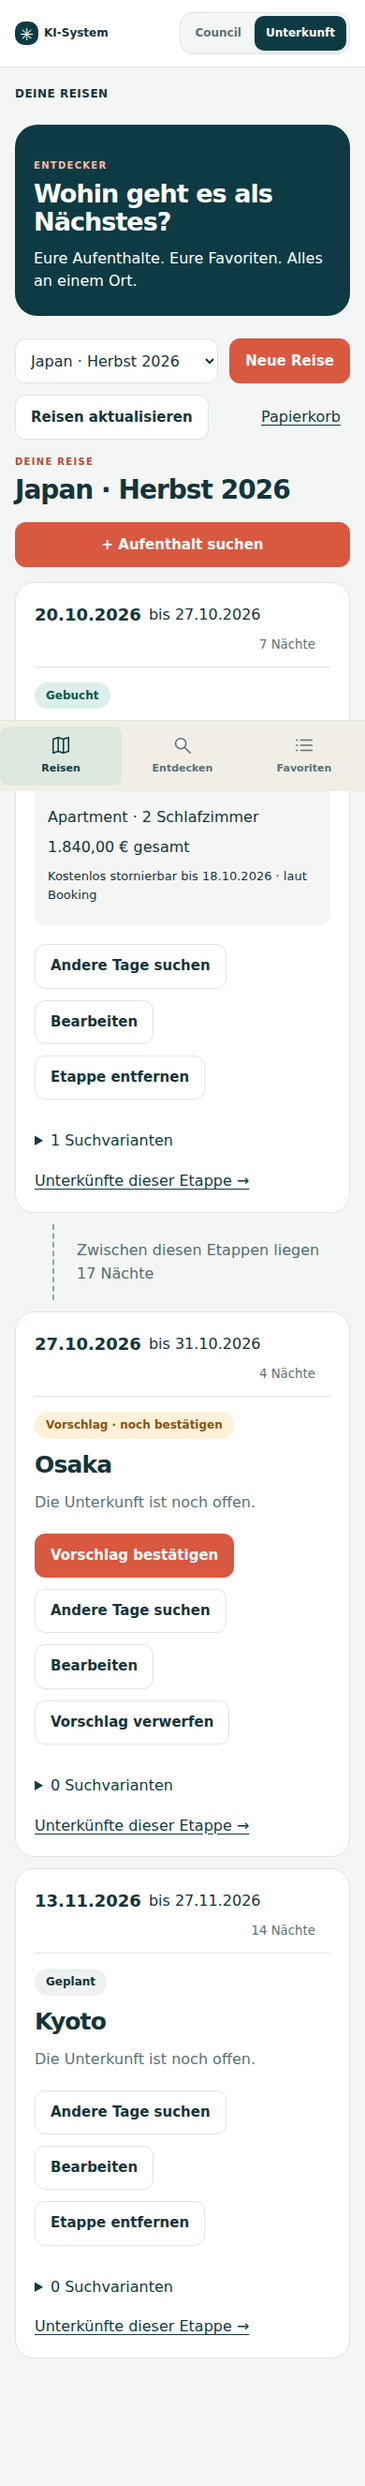
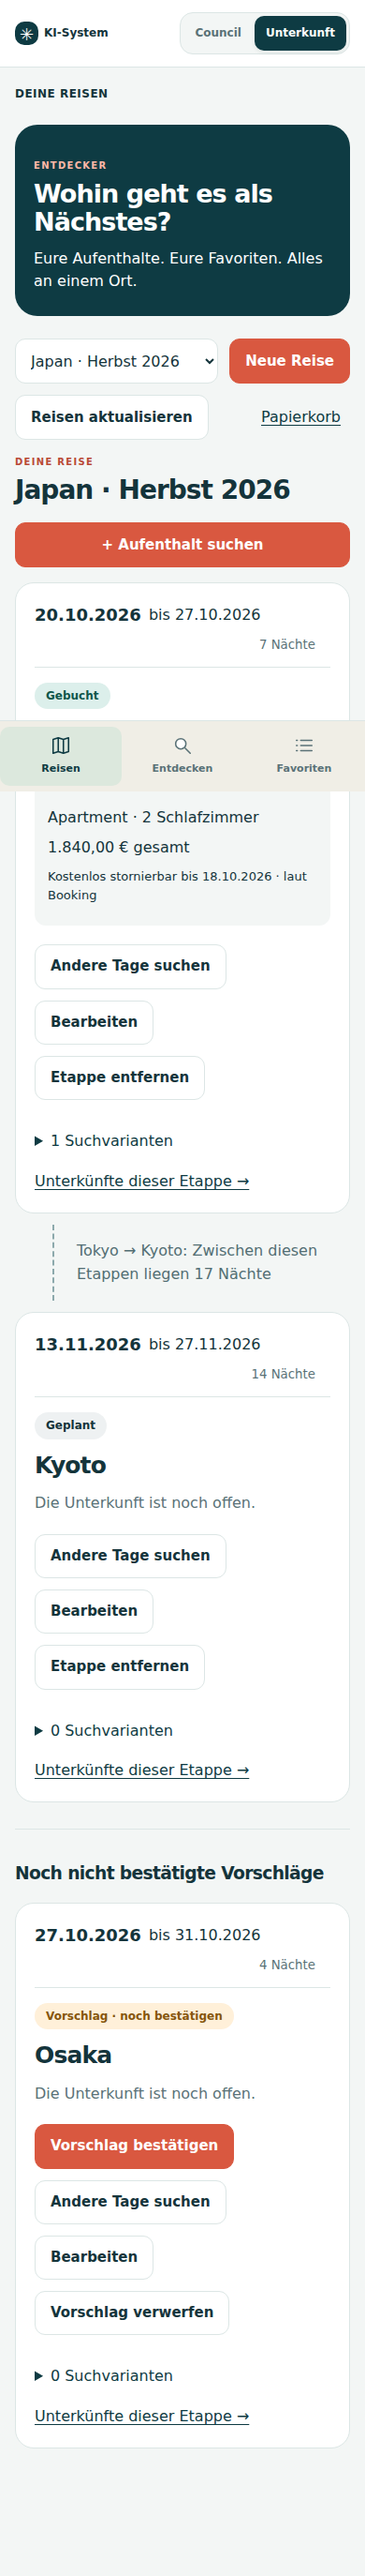
fix: address Claude review 301 A-E; immersive photo review and confirmed trip gaps

diff --git a/stay-review.js b/stay-review.js
@@ -96,7 +96,7 @@ function stayReviewInfo(t,trip) {
   const nights=(Date.parse(trip.abreise)-Date.parse(trip.anreise))/86400000;
   const labels={preis:nights>0?'Gesamt · '+nights+' Nächte':'Gesamtpreis',nacht:'Pro Nacht',gaestenote:'Gästenote',m2:'Fläche',schlafzimmer:'Schlafzimmer',gehzeit:'Zu Fuß zur Station'};
   return el('dl',{class:'review-info'},['preis','m2','schlafzimmer',...stayReviewFields()].map(key=>{
-    const value=stayFieldValue(t,key,trip);let display=value===null?'–':String(value), note=null;
+    const value=stayFieldValue(t,key,trip);let display=value===null?'unbekannt':String(value), note=null;
     if(value!==null){
       if(['preis','nacht'].includes(key))display=(t.angebot?.preis_art==='geschaetzt'?'ca. ':'')+sucheEuro(value);
       if(key==='m2')display=Number(value).toLocaleString('de-DE')+' m²';
@@ -122,7 +122,7 @@ function stayGallery(t) {
   const photo=el('div'), count=el('span',{'aria-live':'polite'});
   const prev=el('button',{type:'button','aria-label':'Vorheriges Foto',onclick:()=>show(index-1)},'‹');
   const next=el('button',{type:'button','aria-label':'Nächstes Foto',onclick:()=>show(index+1)},'›');
-  function show(i) {index=Math.max(0,Math.min(urls.length-1,i));photo.replaceChildren(sucheFoto({...t,bild:urls[index]}));count.textContent=`${index+1} / ${urls.length}`;prev.disabled=index===0;next.disabled=index===urls.length-1;const card=box.closest('.review-card');if(card)stayCardPhoto(card,box);const img=photo.querySelector('img');if(img)img.addEventListener('error',()=>{box.classList.add('gallery-empty');card?.querySelector(':scope > .review-backdrop')?.remove();});box.classList.remove('gallery-empty');}
+  function show(i) {index=Math.max(0,Math.min(urls.length-1,i));photo.replaceChildren(sucheFoto({...t,bild:urls[index]}));count.textContent=`${index+1} / ${urls.length}`;box.dataset.photo=`Foto ${index+1}/${urls.length}`;box.onPhotoChange?.();prev.disabled=index===0;next.disabled=index===urls.length-1;const card=box.closest('.review-card');if(card)stayCardPhoto(card,box);const img=photo.querySelector('img');if(img)img.addEventListener('error',()=>{box.classList.add('gallery-empty');card?.querySelector(':scope > .review-backdrop')?.remove();});box.classList.remove('gallery-empty');}
   photo.addEventListener('pointerdown',e=>{start={x:e.clientX,y:e.clientY};});
   photo.addEventListener('pointerup',e=>{if(start && Math.abs(e.clientX-start.x)>50 && Math.abs(e.clientY-start.y)<50)show(index+(e.clientX<start.x?1:-1));start=null;});
   photo.addEventListener('pointercancel',()=>{start=null;});
@@ -153,7 +153,7 @@ function stayEndrunde(hits,id,call,live,onSaved) {
   }},t.name+' wählen')))));}
   dialog.append(el('h2',{},'Endrunde · Favoriten'),close,body,status,save);list();return dialog;
 }
-function stayReview({getSnapshot,call,live,changed,scope,onRefresh,isBlocked=()=>false}) {
+function stayReview({getSnapshot,call,live,changed,scope,onRefresh,onClose,menuItems=()=>[],isBlocked=()=>false}) {
   let pending=false, last=null, reasonFor=null, awaitingReturn=null, revision=0, gallery=null, galleryId=null, reasonsDialog=null;
   const box=el('section',{class:'stay-review'}), message=el('p',{class:'review-message',role:'status'});
   const minus=[['preis','Preis'],['zu_klein','Zu klein'],['lage','Lage'],['stil','Stil'],['betten','Betten'],['fotos','Fotos'],['laerm','Lärm'],['ausstattung','Ausstattung'],['sonstiges','Sonstiges']];
@@ -188,14 +188,18 @@ function stayReview({getSnapshot,call,live,changed,scope,onRefresh,isBlocked=()=
   function draw(){
     const snapshot=getSnapshot();if(!snapshot)return;
     const all=snapshot.treffer, queue=all.filter(t=>!['favorit','vielleicht','ausgeschlossen'].includes(t.status)&&t.topf!=='ausgeschlossen'&&(!t.urteil_uebernommen || (t.status==='aktiv' && t.urteil_uebernommen.hinweis))).sort((a,b)=>(b.runde||1)-(a.runde||1)||(a.bewertung?.rang??Infinity)-(b.bewertung?.rang??Infinity)||a.treffer_id-b.treffer_id);
-    box.replaceChildren(el('div',{class:'review-toolbar'},el('span',{class:'review-progress'},`${queue.length} offen · ${all.filter(t=>['favorit','vielleicht','ausgeschlossen'].includes(t.status)).length} bewertet`),
-      el('button',{type:'button',disabled:!last||pending||needsRefresh||isBlocked(),'aria-label':'Letzte Entscheidung rückgängig',onclick:()=>vote(last,'offen',[],false)},'↶ Rückgängig')),
-      el('div',{class:'review-feedback'},message,el('button',{type:'button',class:'review-reason-open',disabled:!reasonFor||pending||needsRefresh||isBlocked(),onclick:openReasons},'Gründe ergänzen')));
+    const total=all.filter(t=>t.topf!=='ausgeschlossen').length;
+    const progress=el('span',{class:'review-position','aria-live':'polite'});
+    const undo=el('button',{type:'button',disabled:!last||pending||needsRefresh||isBlocked(),'aria-label':'Letzte Entscheidung rückgängig',onclick:()=>vote(last,'offen',[],false)},'↶');
+    const menu=el('details',{class:'review-menu'},el('summary',{'aria-label':'Durchsehen-Menü'},'•••'),el('div',{class:'review-menu-panel'},...menuItems(),el('p',{class:'review-progress'},`${queue.length} offen · ${all.filter(t=>['favorit','vielleicht','ausgeschlossen'].includes(t.status)).length} bewertet`),el('button',{type:'button',class:'review-reason-open',disabled:!reasonFor||pending||needsRefresh||isBlocked(),onclick:openReasons},'Gründe ergänzen')));
+    const header=el('header',{class:'review-overlay-header'},el('button',{type:'button','aria-label':'Durchsehen schließen',disabled:pending,onclick:onClose},'×'),progress,undo,menu);
+    box.replaceChildren(message);
     if(pending)message.textContent='Speichere …';
     if((needsRefresh||isBlocked())&&!pending&&onRefresh)box.append(el('button',{type:'button',class:'review-reload',onclick:onRefresh},'Aktualisieren'));
-    const t=queue[0];if(!t){box.append(el('h3',{},'Alle Unterkünfte durchgesehen.'),el('p',{},'In der Endrunde kannst du deine Favoriten vergleichen.'));return;}
+    const t=queue[0];if(!t){progress.textContent='Durchsehen abgeschlossen';box.append(header);box.append(el('h3',{},'Alle Unterkünfte durchgesehen.'),el('p',{},'In der Endrunde kannst du deine Favoriten vergleichen.'));return;}
     if(galleryId!==t.treffer_id){galleryId=t.treffer_id;gallery=stayGallery(t);}
     const article=el('article',{class:'review-card','data-review-hit':t.treffer_id});
+    gallery.onPhotoChange=()=>{progress.textContent=`Unterkunft ${Math.max(1,total-queue.length+1)}/${total} · ${gallery.dataset.photo||'Kein Foto'}`;};gallery.onPhotoChange();
     const content=el('div',{class:'review-content',tabindex:0,'aria-label':'Unterkunft ansehen'},gallery,t.urteil_uebernommen?.hinweis?el('p',{class:'warning'},'Jetzt günstiger · '+t.urteil_uebernommen.hinweis):null);
     const swipe=el('div',{class:'review-swipe'},el('h3',{tabindex:-1},t.name),el('p',{class:'review-score'},`Rang ${t.bewertung?.rang??'–'} · ${snapshot.suchauftrag.status==='fertig'&&['A','B'].includes(sucheGruppe(t))?'Passung':'Vorläufige Passung'} ${t.bewertung?.score??'–'}/100`),stayReviewInfo(t,snapshot.suchauftrag));
     let point=null, swiped=false;
@@ -203,12 +207,12 @@ function stayReview({getSnapshot,call,live,changed,scope,onRefresh,isBlocked=()=
     swipe.addEventListener('pointercancel',()=>point=null);
     swipe.addEventListener('pointerup',e=>{if(!point||point.id!==e.pointerId)return;const dx=e.clientX-point.x,dy=e.clientY-point.y;point=null;if(Math.max(Math.abs(dx),Math.abs(dy))<70)return;if(Math.abs(dx)>Math.abs(dy)*1.3){swiped=true;void vote(t,dx>0?'favorit':'weg');}});
     swipe.addEventListener('click',e=>{if(swiped){e.preventDefault();e.stopPropagation();swiped=false;}},true);
-    const warnings=sucheWarnungen(t).map(w=>SUCHE_WARNUNGEN[w]||w);if(warnings.length)swipe.append(el('details',{class:'warning'},el('summary',{},warnings[0]+(warnings.length>1?' · '+(warnings.length-1)+' weitere prüfen':'')),warnings.map(w=>el('p',{},w))));
+    const warnings=[...sucheWarnungen(t).map(w=>SUCHE_WARNUNGEN[w]||w),...['m2','schlafzimmer','gehzeit'].filter(k=>stayFieldValue(t,k,snapshot.suchauftrag)===null).map(k=>({m2:'Fläche: unbekannt',schlafzimmer:'Schlafzimmer: unbekannt',gehzeit:'Station: unbekannt'})[k])];if(warnings.length)swipe.append(el('details',{class:'warning'},el('summary',{},warnings[0]+(warnings.length>1?' · '+(warnings.length-1)+' weitere prüfen':'')),warnings.map(w=>el('p',{},w))));
     const provider=sucheAnbieterLink(t), url=provider?.url;
     content.append(swipe,el('div',{class:'review-links'},url?el('a',{href:url,target:'_blank',rel:'noopener noreferrer',onclick:()=>{awaitingReturn=t.treffer_id;}},provider.label):null,
       el('button',{type:'button',onclick:event=>{const trigger=event.currentTarget,dialog=sucheKandidat(t,snapshot.suchauftrag.status==='fertig',snapshot.suchauftrag.id);scope.append(dialog);dialog.addEventListener('close',()=>{dialog.remove();if(trigger.isConnected)trigger.focus({preventScroll:true});});dialog.showModal();}},'Details')));
     if(awaitingReturn===t.treffer_id)content.append(el('p',{role:'status'},'Und? Wie gefällt dir die Unterkunft?'));
-    article.append(content,buttons(t));stayCardPhoto(article,gallery);box.append(article);
+    article.append(header,content,buttons(t));stayCardPhoto(article,gallery);box.append(article);
 
   }
   const returned=()=>{if(!document.hidden && awaitingReturn && live())draw();};document.addEventListener('visibilitychange',returned);

diff --git a/stay-trips.js b/stay-trips.js
@@ -49,16 +49,21 @@ async function viewReisen(arg){
   const rid=Number(selector.value),trip=snapshot.reisen.find(x=>x.id===rid);content.replaceChildren();if(!trip){content.append(el('p',{},'Lege deine erste Reise an. Danach kannst du Unterkünfte suchen.'));return;}
   const stages=snapshot.etappen.filter(e=>e.reise_id===rid).sort((a,b)=>String(a.anreise).localeCompare(String(b.anreise))||a.id-b.id);
   content.append(el('div',{class:'trip-title'},el('div',{},el('p',{class:'eyebrow'},'DEINE REISE'),el('h2',{},trip.name)),el('button',{class:'primary',onclick:()=>{stayWrite('ks_trip_context',{reise_id:rid});route('suche');}},'+ Aufenthalt suchen')));
-  const timeline=el('div',{class:'trip-timeline'});content.append(timeline);
+  const timeline=el('div',{class:'trip-timeline'}),proposals=el('section',{class:'trip-proposals'},el('h3',{},'Noch nicht bestätigte Vorschläge'));content.append(timeline);
+  const confirmed=stages.filter(e=>e.status!=='vorschlag');
   for(const e of stages){const b=e.buchung,card=el('article',{class:'trip-stage','data-stage':e.id});
    card.append(el('div',{class:'stage-date'},el('strong',{},fmtDate(e.anreise)),el('span',{},'bis '+fmtDate(e.abreise)),el('small',{},(e.naechte??'–')+' Nächte')),
     el('div',{class:'stage-main'},el('span',{class:'trip-status '+e.status},{vorschlag:'Vorschlag · noch bestätigen',geplant:'Geplant',gebucht:'Gebucht'}[e.status]||'Status offen'),el('h3',{},e.ziel),b?el('div',{class:'booking-summary'},el('strong',{},b.name||'Unterkunft'),el('p',{},b.zimmer||''),el('p',{},sucheEuro(b.preis_gesamt_eur)+' gesamt'),el('p',{class:'storno'},tripStorno(b))):el('p',{class:'muted'},'Die Unterkunft ist noch offen.'),
     el('div',{class:'actions'},e.status==='vorschlag'?el('button',{class:'primary',onclick:()=>change(e,{status:'geplant'})},'Vorschlag bestätigen'):null,el('button',{onclick:()=>tripStart(e)},'Andere Tage suchen'),el('button',{onclick:()=>tripEdit(e,load)},'Bearbeiten'),el('button',{onclick:()=>tripDelete('etappe',e.id,load)},e.status==='vorschlag'?'Vorschlag verwerfen':'Etappe entfernen'))));
    const searches=el('details',{open:expanded.has(e.id)},el('summary',{},(e.suchen||[]).length+' Suchvarianten'));
    for(const s of e.suchen||[]){const active=s.id===e.aktive_suche_id;searches.append(el('div',{class:'trip-variant'},el('a',{href:'#/suche/'+s.id},`${fmtDate(s.anreise)}–${fmtDate(s.abreise)} · ${s.status}`),active?el('strong',{},'Aktuelle Variante'):el('button',{onclick:()=>change(e,{aktive_suche_id:s.id})},'Diese Tage verwenden'),el('button',{onclick:()=>tripDelete('suchauftrag',s.id,load)},'Suche entfernen')));}
-   card.querySelector('.stage-main').append(searches,el('a',{href:'#/etappe/'+e.id},'Unterkünfte dieser Etappe →'));timeline.append(card);
-   for(const gap of snapshot.luecken||[]){if(gap.zwischen?.[0]===e.id)timeline.append(el('div',{class:'trip-gap'},gap.text||`${gap.naechte} Nächte noch offen`));}
+   card.querySelector('.stage-main').append(searches,el('a',{href:'#/etappe/'+e.id},'Unterkünfte dieser Etappe →'));if(e.status==='vorschlag')proposals.append(card);else {
+    const before=confirmed[confirmed.indexOf(e)-1];
+    for(const gap of snapshot.luecken||[]){if(before&&gap.zwischen?.[0]===before.id&&gap.zwischen?.[1]===e.id)timeline.append(el('div',{class:'trip-gap','data-gap-from':before.id,'data-gap-to':e.id},`${before.ziel} → ${e.ziel}: `+(gap.text||`${gap.naechte} Nächte noch offen`)));}
+    timeline.append(card);
+   }
   }
+  if(proposals.childElementCount>1)content.append(proposals);
   if(!stages.length)timeline.append(el('p',{class:'card'},'Noch keine Etappen. Suche deinen ersten Aufenthalt.'));
   const loose=(snapshot.ohne_etappe||[]).filter(s=>s.reise_id===rid||!s.reise_id);if(loose.length){const box=el('details',{},el('summary',{},'Suchen ohne Etappe'));for(const s of loose){const target=el('select',{'aria-label':'Etappe für Suche '+s.id},el('option',{value:''},'Etappe wählen'),stages.map(e=>el('option',{value:e.id},e.ziel+' · '+fmtDate(e.anreise))));box.append(el('div',{class:'trip-variant'},el('a',{href:'#/suche/'+s.id},'Suche #'+s.id+' · '+s.ziel),target,el('button',{onclick:async ev=>{if(!tripId(target.value))return;ev.target.disabled=true;try{const r=await tripCall('unterkunft_etappe_zuordnen',{suchauftrag_id:s.id,etappe_id:Number(target.value)});if(!r.suche)throw Error('Zuordnung nicht bestätigt.');await load();}catch(e){status.textContent=e.message+' Bitte neu lesen.';}}},'Zuordnen')));}content.append(box);}
  }

diff --git a/style.css b/style.css
@@ -944,3 +944,37 @@ body:has(.tinder-mode){padding-top:0!important;}
 .review-card:has(>.review-backdrop) .review-links,.review-card:has(>.review-backdrop) .review-actions{background:rgba(14,59,67,.88);}
 
 .review-card .stay-photo figcaption{top:60px;bottom:auto;left:auto;right:12px;max-width:65%;font-size:10px;background:#0e3b43b3;border-radius:6px;padding:3px 6px;color:white;}
+
+/* Review 301 A–E: immersive photo, overlaid controls, explicit unknowns. */
+body[data-area="unterkunft"]{padding-bottom:calc(100px + env(safe-area-inset-bottom));}
+body:has(.tinder-mode) main.view{padding:8px 10px;}
+.tinder-mode{height:calc(100dvh - 96px - env(safe-area-inset-bottom))!important;}
+.tinder-mode .review-message:empty{display:none;}
+.tinder-mode .review-message{margin:0;font-size:12px;}
+.tinder-mode .review-card{overflow:hidden;}
+.review-overlay-header{position:absolute;top:0;left:0;right:0;z-index:5;display:flex;align-items:center;gap:6px;padding:12px;background:linear-gradient(#092c36bb,transparent);color:white;}
+.review-overlay-header button,.review-menu>summary{width:44px;min-width:44px;min-height:44px;margin:0;padding:8px;background:#0e3b4380;color:white;border:1px solid #ffffff50;border-radius:50%;text-align:center;}
+.review-overlay-header button:disabled{opacity:.5;}.review-position{flex:1;font-size:12px;font-weight:600;text-align:center;line-height:1.4;}
+.review-menu>summary{list-style:none;cursor:pointer;}.review-menu>summary::-webkit-details-marker{display:none;}
+.review-menu-panel{position:absolute;top:68px;right:12px;width:min(340px,calc(100% - 24px));max-height:60dvh;overflow:auto;padding:16px;border-radius:16px;background:#fff;color:#14343b;box-shadow:0 12px 32px #0005;}
+.review-menu-panel button{width:auto;color:#14343b;background:#f3f6f5;border:1px solid #dce6e5;border-radius:10px;}.review-menu-panel .result-view-switch{display:flex!important;flex-wrap:wrap;}.review-menu-panel a{color:#0e3b43;}.review-menu-panel .review-run-bar{display:flex;flex-wrap:wrap;margin:12px 0;}
+.review-card>.review-backdrop{mask-image:none;}
+.review-card .review-content{display:flex;flex-direction:column;justify-content:flex-end;padding-top:76px;}
+.review-card .review-content>.stay-gallery{position:absolute;inset:76px 0 auto;height:34%!important;min-height:120px;}
+.review-card .stay-gallery>div:first-child,.review-card .stay-photo{height:100%!important;}
+.review-card .stay-gallery .stay-photo img{height:100%!important;}
+.review-card .gallery-controls span{display:none;}
+.review-card .photo-large{top:8px;right:14px;background:#0e3b4380;color:white;border:1px solid #ffffff50;}
+.review-card .stay-photo figcaption{top:60px;}
+.review-card .review-swipe{margin-top:0;padding:40px 18px 4px;background:linear-gradient(transparent,#0e3b43ee 40px)!important;z-index:1;}
+.review-card .review-links,.review-card .review-actions{background:#0e3b43ee!important;z-index:1;}
+.review-card .review-info dd{overflow-wrap:anywhere;}.review-card .warning{font-size:12px;margin:8px 0 0;padding:2px 10px;}.review-card .warning summary{min-height:40px;padding:8px 0;margin:0;}
+.review-card:has(.gallery-empty) .review-content{padding-top:160px;}
+.trip-proposals{border-top:1px solid var(--border);margin-top:28px;padding-top:16px;}
+@media(min-width:960px){body[data-area="unterkunft"]{padding-bottom:32px;}.tinder-mode{height:calc(100dvh - 32px)!important;}}
+.review-menu{flex-shrink:0;}.review-menu>summary{display:grid;place-items:center;white-space:nowrap;height:44px;line-height:24px;font-size:18px;}
+.stay-review{position:relative;}.stay-review:has(>.review-overlay-header){padding-top:80px;}
+.tinder-mode .review-message:not(:empty){position:absolute;top:70px;left:12px;right:12px;z-index:6;padding:8px 12px;border-radius:8px;color:white;background:#0e3b43e8;pointer-events:none;}
+.review-menu-panel .result-view-switch{position:static;top:auto;margin:0;padding:0;}
+.review-menu-panel .result-view-switch{display:grid!important;grid-template-columns:1fr 1fr;gap:8px;}
+.review-menu-panel .result-view-switch a{grid-column:1 / -1;justify-content:center;}

diff --git a/app.js b/app.js
@@ -1079,7 +1079,7 @@ async function viewSuche(idStr, { historyOnly = false } = {}) {
   const viewButtons = el('div', { class: 'actions result-view-switch', hidden: true, role: 'group', 'aria-label': 'Ergebnisansicht' }, listButton, tableButton, tinderButton, mapButton, el('a',{href:'#/anzeige'},'Anzeige'));
   const undoSelection = el('button', { type: 'button', hidden: true, onclick: () => selectionStates.get(lastSelection)?.undoAction() }, 'Letzte Auswahl rückgängig');
   const research = sucheLuecken(id, call, live);
-  review = stayReview({getSnapshot:()=>snapshot,call,live,scope,onRefresh:()=>refresh.click(),isBlocked:()=>[...selectionStates.values()].some(s=>s.refreshRequired||s.pending),changed:t=>{const current=snapshot?.treffer.find(x=>x.treffer_id===t.treffer_id);if(current && current!==t)Object.assign(current,{status:t.status,urteil_gruende:t.urteil_gruende,urteil_uebernommen:t.urteil_uebernommen});selectionStates.delete(t.treffer_id);draw();}});
+  review = stayReview({getSnapshot:()=>snapshot,call,live,scope,onClose:()=>setResultView('list'),menuItems:()=>[viewButtons,runBar],onRefresh:()=>refresh.click(),isBlocked:()=>[...selectionStates.values()].some(s=>s.refreshRequired||s.pending),changed:t=>{const current=snapshot?.treffer.find(x=>x.treffer_id===t.treffer_id);if(current && current!==t)Object.assign(current,{status:t.status,urteil_gruende:t.urteil_gruende,urteil_uebernommen:t.urteil_uebernommen});selectionStates.delete(t.treffer_id);draw();}});
   let furtherRound=null;
   const more = el('button',{type:'button',hidden:true,onclick:()=>{moreConfirm.hidden=false;}},'Weitere suchen');
   const moreConfirm = el('div',{class:'card',hidden:true},el('p',{},'Kostet ca. 0,05–0,50 USD; findet nur, was die Quellen zusätzlich haben.'),
@@ -1165,7 +1165,7 @@ async function viewSuche(idStr, { historyOnly = false } = {}) {
     const modeChanged=scope.classList.contains('tinder-mode')!==compact;
     scope.classList.toggle('tinder-mode',compact);report.hidden=compact;
     if(modeChanged)runTools.open=!compact;
-    if(compact)scope.insertBefore(viewButtons,runBar);else scope.insertBefore(viewButtons,resultLinks);
+    if(!compact){scope.insertBefore(runBar,moreConfirm);scope.insertBefore(viewButtons,resultLinks);}
     const a = snapshot.suchauftrag, k = snapshot.kosten || {}, steps = Array.isArray(a.schrittkette) ? a.schrittkette : [];
     runTools.querySelector('summary').textContent=compact?(a.ziel||'Reise')+' · Suchlauf':'Suchlauf';
     const phase = { final: snapshotStatus?.status === 'fertig' && snapshotStatus?.fertig === true, failed: snapshotStatus?.status !== 'fertig' && SUCHE_ENDE.has(snapshotStatus?.status) };

diff --git a/docs/STUFE2-ABNAHME.md b/docs/STUFE2-ABNAHME.md
@@ -37,11 +37,27 @@ Browseraufnahmen aus der tatsächlichen Implementierung mit **synthetischen Test
 - [Reisen · Handy](previews/stufe2-reisen-mobile.png)
 - [Reisen · Desktop](previews/stufe2-reisen-desktop.png)
 - [Durchsehen · Handy](previews/stufe2-durchsehen-mobile.png)
+- [Durchsehen · Menü](previews/stufe2-durchsehen-menu.png)
+- [Durchsehen · Desktop](previews/stufe2-durchsehen-desktop.png)
 
 ## Bewusste Grenzen / Prüfung für Claude
 
-- Bei einer bereits gebuchten Etappe ist der Wechsel auf andere aktive Suchdaten gesperrt: Der Server 0.12.0 übernimmt beim Variantenwechsel sonst neue Reisedaten, behält aber die alte Buchung. Die App darf eine Buchung nicht still auf andere Tage übertragen. Ein getrennter Aufenthalt ist möglich. Bitte den gewünschten späteren Umbuchungsablauf gemeinsam klären.
+- Bei einer bereits gebuchten Etappe ist der Wechsel auf andere aktive Suchdaten gesperrt: Claude hat diesen Fall laut Nachricht 301 inzwischen auch serverseitig gesperrt. Die App behält ihre Sperre bei. Die App darf eine Buchung nicht still auf andere Tage übertragen. Ein getrennter Aufenthalt ist möglich. Bitte den gewünschten späteren Umbuchungsablauf gemeinsam klären.
 - Verwerfen eines unbestätigten Vorschlags ist laut Serververtrag keine Papierkorb-Aktion. Der Dialog verspricht deshalb weder Wiederherstellen noch 30 Tage; zugehörige Suchen bleiben erhalten.
 - Die historischen Preise der allgemeinen Merkliste gehören weiterhin zum dort ausdrücklich datierten Suchlauf. Die Etappenansicht trennt aktive Angebote von früheren Preisen.
 - Die Suite verwendet API-Mocks und schreibt keine echten Reisen, Buchungen oder Suchaufträge. Der optionale Kyoto-Test mit echten gelesenen Daten bleibt ohne lokale Eingabedatei übersprungen.
 - Keine Preisüberwachung, externe Buchung oder weitere Serveränderung Bestandteil dieses PR.
+
+## Nachprüfung Nachricht 301 (A–E)
+
+A: Vollflächenfoto mit überlagertem Kopf: Schließen, Unterkunft-/Fotozähler, Rückgängig und Menü. Ansichtswechsel, Endrunde und optionale Gründe liegen im Menü. Der Fotozähler folgt der Galerie, der Unterkunftszähler dem Durchsehen-Fortschritt. Statusmeldungen verschieben die Karte nicht.
+
+B: Fehlende Fläche, Schlafzimmer, Gästenote und Gehzeit heißen ausdrücklich „unbekannt“.
+
+C: Warnungen stehen als aufklappbare Zeile direkt auf der Karte (erste Warnung + weitere prüfen). Fehlende Kerndaten werden dort ebenfalls genannt.
+
+D: Lücken stehen ausschließlich zwischen den beiden bestätigten Etappen aus `luecken[].zwischen`. Noch unbestätigte Vorschläge erhalten einen eigenen Abschnitt außerhalb der bestätigten Route.
+
+E: Abstand zur festen unteren Navigation einschließlich Safe Area; letzte Reise-Karte und Durchsehen-Knöpfe bleiben erreichbar.
+
+Zusätzliche Regressionen `Review301 A–C` und `Review301 D–E`; bestehende Bedienprüfungen verwenden die neue Menüführung. Keine Integration der zusätzlichen Stufe-3/4-Serverfunktionen.
